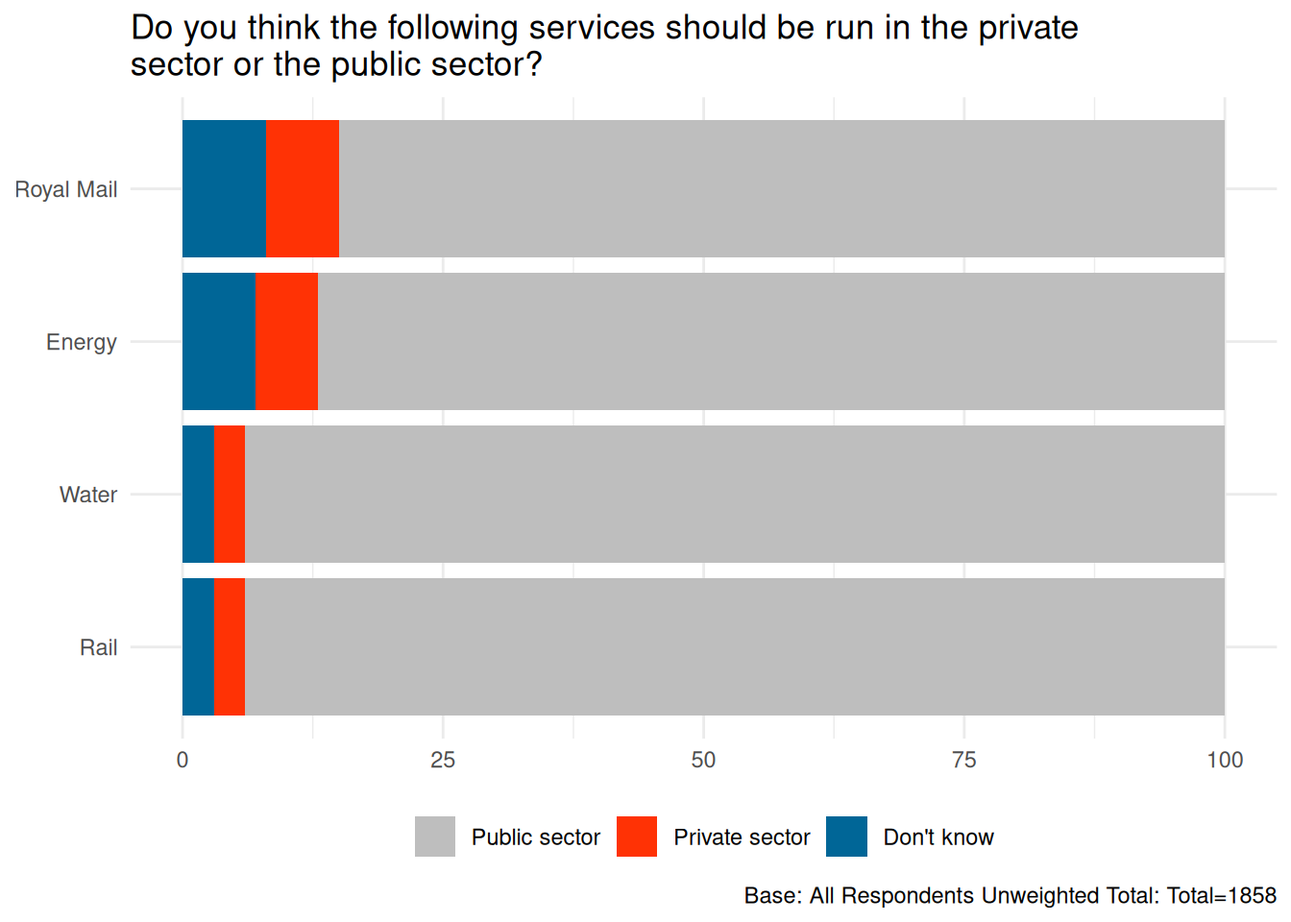
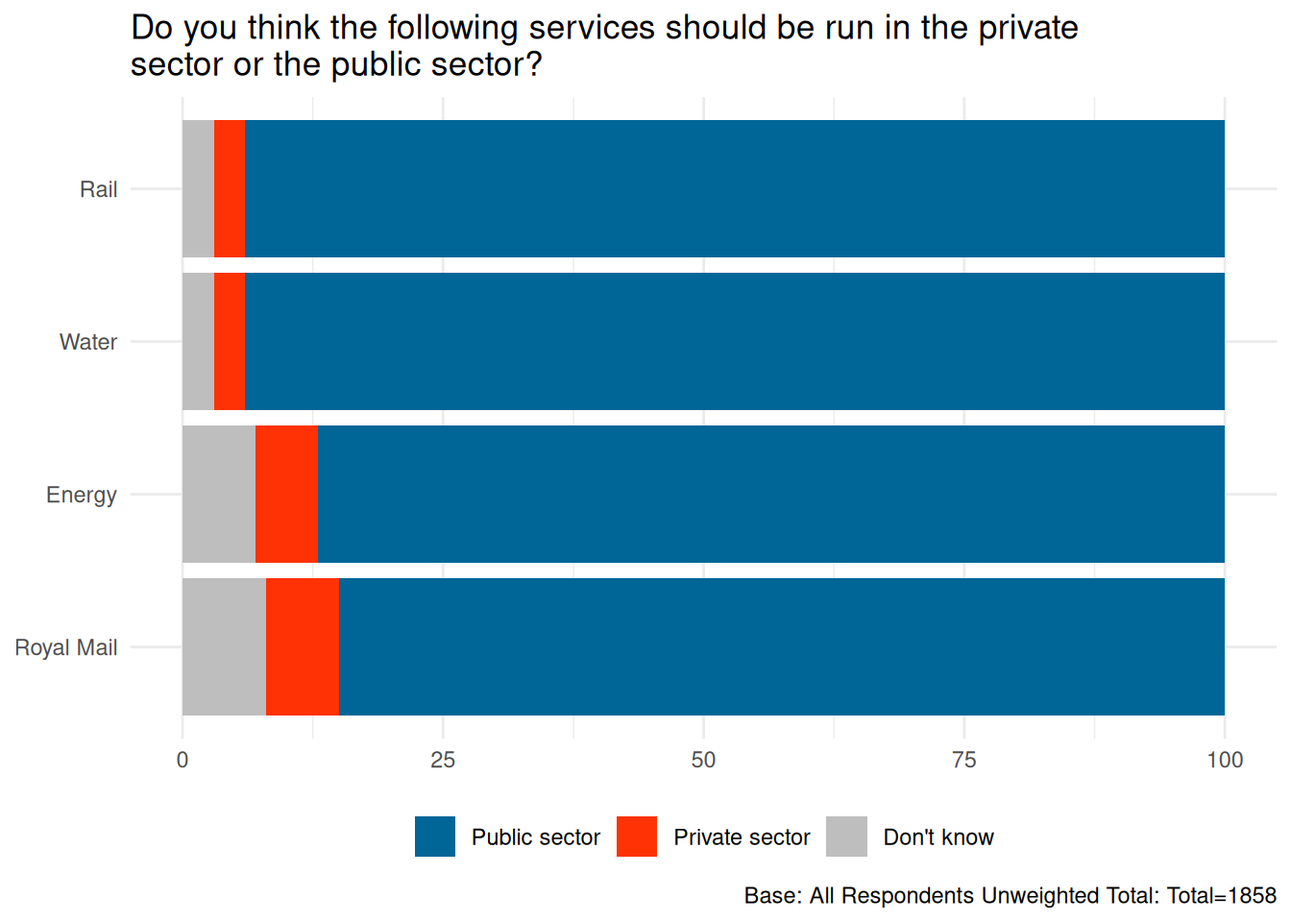
Lab 4 completed

diff --git a/lab-4.html b/lab-4.html
@@ -164,11 +164,8 @@ Try each label option in the code chunk provided in your document. If it gives y
 </div>
 <pre><code>Add the following code chunk options, one at a time, and set each to `false` and then to `true`. After each value, render your document and observe its effect. Ultimately, choose the values that are the most appropriate for this code chunk. Based on the behaviors you observe, describe what each code chunk option does.</code></pre>
 <ul>
-<li><code>echo</code></li>
-</ul>
-<p>When I tried <code>echo: true</code>. The code is hidden, but the output can still appear if the code runs <code>echo: false</code>. The goal is to show only the plot and not the code then<code>echo: false</code> is better.</p>
-<ul>
-<li><code>warning</code></li>
+<li><p><code>echo</code></p></li>
+<li><p><code>warning</code></p></li>
 </ul>
 <p>Warning messages produced by the code are shown in the document with <code>warning: true</code>. And warning messages are hidden with <code>warning: false</code>. <code>warning: false</code> is better, so the document stays clean unless the warnings matter.</p>
 <ul>
@@ -196,8 +193,8 @@ Try each label option in the code chunk provided in your document. If it gives y
 <span id="cb11-2"><a href="#cb11-2" aria-hidden="true" tabindex="-1"></a>  <span class="fu">geom_point</span>()</span></code></pre></div><button title="Copy to Clipboard" class="code-copy-button"><i class="bi"></i></button></div>
 </div>
 <pre><code>Add `fig-width` and `fig-asp` as code chunk options. Try setting `fig-width` to values between 1 and 10. Try setting `fig-asp` to values between 0.1 and 1. Re-render the document after each value and observe its effect. Ultimately, choose values that make the plot look visually pleasing in the rendered document. Based on the behavior you observe, describe what each chunk option does.</code></pre>
-<p><code>fig-width</code> changes the width of the figure. Larger values make the plot wider and smaller values make it shorter.</p>
-<p>fig-asp` changes how tall the figure is compared to its width. Larger values make the figure taller and smaller values make it shorter.</p>
+<p><code>fig-width</code> changes the width of the figure. Larger values make the plot wider and smaller values make it narrower.</p>
+<p><code>fig-asp</code> changes how tall the figure is compared to its width. Larger values make the figure taller and smaller values make it shorter.</p>
 <p>A visually pleasing choice for this plot is:</p>
 <div class="cell">
 <div class="code-copy-outer-scaffold"><div class="sourceCode cell-code" id="cb13"><pre class="sourceCode r code-with-copy"><code class="sourceCode r"><span id="cb13-1"><a href="#cb13-1" aria-hidden="true" tabindex="-1"></a><span class="co"># with assistance of ChatGPT</span></span>
@@ -265,10 +262,11 @@ Tip
 </figure>
 </div>
 <ol type="a">
-<li>What is misleading about this graph?</li>
-<li>Suppose you wanted to recreate this plot, with improvements to avoid its misleading pitfalls from part (a). You would obviously need the data from the survey in order to be able to do that. How many observations would this data have? How many variables (at least) should it have, and what should those variables be?</li>
-<li>Load the data for this survey from <code>data/survation.csv</code>. Confirm that the data match the percentages from the visualization. That is, calculate the percentages of public sector, private sector, don’t know for each of the services and check that they match the percentages from the plot.</li>
+<li><p>What is misleading about this graph? The graph is misleading as percentages do not match the bar sizes.</p></li>
+<li><p>Suppose you wanted to recreate this plot, with improvements to avoid its misleading pitfalls from part (a). You would obviously need the data from the survey in order to be able to do that. How many observations would this data have? How many variables (at least) should it have, and what should those variables be?</p></li>
 </ol>
+<p>1858 is the total sample size. Service and response would be needed, and an ID variable would be helpful. c.&nbsp;Load the data for this survey from <code>data/survation.csv</code>. Confirm that the data match the percentages from the visualization. That is, calculate the percentages of public sector, private sector, don’t know for each of the services and check that they match the percentages from the plot.</p>
+<p>After loading the survation.csv file it was found that the percentage calculated matches the plot.</p>
 <div class="cell">
 <div class="code-copy-outer-scaffold"><div class="sourceCode cell-code" id="cb19"><pre class="sourceCode r code-with-copy"><code class="sourceCode r"><span id="cb19-1"><a href="#cb19-1" aria-hidden="true" tabindex="-1"></a><span class="co"># With assistance of ChatGPT</span></span>
 <span id="cb19-2"><a href="#cb19-2" aria-hidden="true" tabindex="-1"></a>survation <span class="ot">&lt;-</span> <span class="fu">read_csv</span>(<span class="st">"data/survation.csv"</span>)</span></code></pre></div><button title="Copy to Clipboard" class="code-copy-button"><i class="bi"></i></button></div>
@@ -324,48 +322,44 @@ dbl (1): ID
 <li><p>does not need to have a bolded title or a gray background</p></li>
 </ul>
 <div class="cell">
-<div class="code-copy-outer-scaffold"><div class="sourceCode cell-code" id="cb23"><pre class="sourceCode r code-with-copy"><code class="sourceCode r"><span id="cb23-1"><a href="#cb23-1" aria-hidden="true" tabindex="-1"></a>survation <span class="ot">&lt;-</span> <span class="fu">read_csv</span>(<span class="st">"data/survation.csv"</span>)</span></code></pre></div><button title="Copy to Clipboard" class="code-copy-button"><i class="bi"></i></button></div>
-<div class="cell-output cell-output-stderr">
-<pre><code>Rows: 1858 Columns: 5
-── Column specification ────────────────────────────────────────────────────────
-Delimiter: ","
-chr (4): Royal Mail, Energy, Water, Rail
-dbl (1): ID
-
-ℹ Use `spec()` to retrieve the full column specification for this data.
-ℹ Specify the column types or set `show_col_types = FALSE` to quiet this message.</code></pre>
-</div>
-<div class="code-copy-outer-scaffold"><div class="sourceCode cell-code" id="cb25"><pre class="sourceCode r code-with-copy"><code class="sourceCode r"><span id="cb25-1"><a href="#cb25-1" aria-hidden="true" tabindex="-1"></a>service_levels <span class="ot">&lt;-</span> <span class="fu">c</span>(<span class="st">"Rail"</span>, <span class="st">"Water"</span>, <span class="st">"Energy"</span>, <span class="st">"Royal Mail"</span>)</span>
-<span id="cb25-2"><a href="#cb25-2" aria-hidden="true" tabindex="-1"></a>response_levels <span class="ot">&lt;-</span> <span class="fu">c</span>(<span class="st">"Public sector"</span>, <span class="st">"Private sector"</span>, <span class="st">"Don't know"</span>)</span>
-<span id="cb25-3"><a href="#cb25-3" aria-hidden="true" tabindex="-1"></a></span>
-<span id="cb25-4"><a href="#cb25-4" aria-hidden="true" tabindex="-1"></a>survation_long <span class="ot">&lt;-</span> survation <span class="sc">|&gt;</span></span>
-<span id="cb25-5"><a href="#cb25-5" aria-hidden="true" tabindex="-1"></a>  <span class="fu">pivot_longer</span>(</span>
-<span id="cb25-6"><a href="#cb25-6" aria-hidden="true" tabindex="-1"></a>    <span class="at">cols =</span> <span class="sc">-</span>ID,</span>
-<span id="cb25-7"><a href="#cb25-7" aria-hidden="true" tabindex="-1"></a>    <span class="at">names_to =</span> <span class="st">"service"</span>,</span>
-<span id="cb25-8"><a href="#cb25-8" aria-hidden="true" tabindex="-1"></a>    <span class="at">values_to =</span> <span class="st">"response"</span></span>
-<span id="cb25-9"><a href="#cb25-9" aria-hidden="true" tabindex="-1"></a>  ) <span class="sc">|&gt;</span></span>
-<span id="cb25-10"><a href="#cb25-10" aria-hidden="true" tabindex="-1"></a>  <span class="fu">mutate</span>(</span>
-<span id="cb25-11"><a href="#cb25-11" aria-hidden="true" tabindex="-1"></a>    <span class="at">service =</span> <span class="fu">factor</span>(service, <span class="at">levels =</span> service_levels),</span>
-<span id="cb25-12"><a href="#cb25-12" aria-hidden="true" tabindex="-1"></a>    <span class="at">response =</span> <span class="fu">factor</span>(response, <span class="at">levels =</span> response_levels)</span>
-<span id="cb25-13"><a href="#cb25-13" aria-hidden="true" tabindex="-1"></a>  )</span>
-<span id="cb25-14"><a href="#cb25-14" aria-hidden="true" tabindex="-1"></a></span>
-<span id="cb25-15"><a href="#cb25-15" aria-hidden="true" tabindex="-1"></a>survation_plot <span class="ot">&lt;-</span> survation_long <span class="sc">|&gt;</span></span>
-<span id="cb25-16"><a href="#cb25-16" aria-hidden="true" tabindex="-1"></a>  <span class="fu">count</span>(service, response) <span class="sc">|&gt;</span></span>
-<span id="cb25-17"><a href="#cb25-17" aria-hidden="true" tabindex="-1"></a>  <span class="fu">group_by</span>(service) <span class="sc">|&gt;</span></span>
-<span id="cb25-18"><a href="#cb25-18" aria-hidden="true" tabindex="-1"></a>  <span class="fu">mutate</span>(<span class="at">percent =</span> n <span class="sc">/</span> <span class="fu">sum</span>(n) <span class="sc">*</span> <span class="dv">100</span>)</span>
-<span id="cb25-19"><a href="#cb25-19" aria-hidden="true" tabindex="-1"></a></span>
-<span id="cb25-20"><a href="#cb25-20" aria-hidden="true" tabindex="-1"></a><span class="fu">ggplot</span>(survation_plot, <span class="fu">aes</span>(<span class="at">x =</span> percent, <span class="at">y =</span> service, <span class="at">fill =</span> response)) <span class="sc">+</span></span>
-<span id="cb25-21"><a href="#cb25-21" aria-hidden="true" tabindex="-1"></a>  <span class="fu">geom_col</span>() <span class="sc">+</span></span>
-<span id="cb25-22"><a href="#cb25-22" aria-hidden="true" tabindex="-1"></a>  <span class="fu">scale_fill_manual</span>(<span class="at">values =</span> <span class="fu">c</span>(<span class="st">"gray"</span>, <span class="st">"#FF3205"</span>, <span class="st">"#006697"</span>)) <span class="sc">+</span></span>
-<span id="cb25-23"><a href="#cb25-23" aria-hidden="true" tabindex="-1"></a>  <span class="fu">labs</span>(</span>
-<span id="cb25-24"><a href="#cb25-24" aria-hidden="true" tabindex="-1"></a>    <span class="at">title =</span> <span class="st">"Do you think the following services should be run in the private</span><span class="sc">\n</span><span class="st">sector or the public sector?"</span>,</span>
-<span id="cb25-25"><a href="#cb25-25" aria-hidden="true" tabindex="-1"></a>    <span class="at">caption =</span> <span class="st">"Base: All Respondents Unweighted Total: Total=1858"</span>,</span>
-<span id="cb25-26"><a href="#cb25-26" aria-hidden="true" tabindex="-1"></a>    <span class="at">x =</span> <span class="cn">NULL</span>,</span>
-<span id="cb25-27"><a href="#cb25-27" aria-hidden="true" tabindex="-1"></a>    <span class="at">y =</span> <span class="cn">NULL</span>,</span>
-<span id="cb25-28"><a href="#cb25-28" aria-hidden="true" tabindex="-1"></a>    <span class="at">fill =</span> <span class="cn">NULL</span></span>
-<span id="cb25-29"><a href="#cb25-29" aria-hidden="true" tabindex="-1"></a>  ) <span class="sc">+</span></span>
-<span id="cb25-30"><a href="#cb25-30" aria-hidden="true" tabindex="-1"></a>  <span class="fu">theme_minimal</span>() <span class="sc">+</span></span>
-<span id="cb25-31"><a href="#cb25-31" aria-hidden="true" tabindex="-1"></a>  <span class="fu">theme</span>(<span class="at">legend.position =</span> <span class="st">"bottom"</span>)</span></code></pre></div><button title="Copy to Clipboard" class="code-copy-button"><i class="bi"></i></button></div>
+<div class="code-copy-outer-scaffold"><div class="sourceCode cell-code" id="cb23"><pre class="sourceCode r code-with-copy"><code class="sourceCode r"><span id="cb23-1"><a href="#cb23-1" aria-hidden="true" tabindex="-1"></a><span class="co">#Assisted by ChatGPT</span></span>
+<span id="cb23-2"><a href="#cb23-2" aria-hidden="true" tabindex="-1"></a>survation <span class="ot">&lt;-</span> <span class="fu">read_csv</span>(<span class="st">"data/survation.csv"</span>, <span class="at">show_col_types =</span> <span class="cn">FALSE</span>)</span>
+<span id="cb23-3"><a href="#cb23-3" aria-hidden="true" tabindex="-1"></a></span>
+<span id="cb23-4"><a href="#cb23-4" aria-hidden="true" tabindex="-1"></a>service_levels <span class="ot">&lt;-</span> <span class="fu">c</span>(<span class="st">"Rail"</span>, <span class="st">"Water"</span>, <span class="st">"Energy"</span>, <span class="st">"Royal Mail"</span>)</span>
+<span id="cb23-5"><a href="#cb23-5" aria-hidden="true" tabindex="-1"></a>response_levels <span class="ot">&lt;-</span> <span class="fu">c</span>(<span class="st">"Public sector"</span>, <span class="st">"Private sector"</span>, <span class="st">"Don't know"</span>)</span>
+<span id="cb23-6"><a href="#cb23-6" aria-hidden="true" tabindex="-1"></a></span>
+<span id="cb23-7"><a href="#cb23-7" aria-hidden="true" tabindex="-1"></a>survation_long <span class="ot">&lt;-</span> survation <span class="sc">|&gt;</span></span>
+<span id="cb23-8"><a href="#cb23-8" aria-hidden="true" tabindex="-1"></a>  <span class="fu">pivot_longer</span>(</span>
+<span id="cb23-9"><a href="#cb23-9" aria-hidden="true" tabindex="-1"></a>    <span class="at">cols =</span> <span class="sc">-</span>ID,</span>
+<span id="cb23-10"><a href="#cb23-10" aria-hidden="true" tabindex="-1"></a>    <span class="at">names_to =</span> <span class="st">"service"</span>,</span>
+<span id="cb23-11"><a href="#cb23-11" aria-hidden="true" tabindex="-1"></a>    <span class="at">values_to =</span> <span class="st">"response"</span></span>
+<span id="cb23-12"><a href="#cb23-12" aria-hidden="true" tabindex="-1"></a>  ) <span class="sc">|&gt;</span></span>
+<span id="cb23-13"><a href="#cb23-13" aria-hidden="true" tabindex="-1"></a>  <span class="fu">mutate</span>(</span>
+<span id="cb23-14"><a href="#cb23-14" aria-hidden="true" tabindex="-1"></a>    <span class="at">service =</span> <span class="fu">factor</span>(service, <span class="at">levels =</span> <span class="fu">rev</span>(service_levels)),</span>
+<span id="cb23-15"><a href="#cb23-15" aria-hidden="true" tabindex="-1"></a>    <span class="at">response =</span> <span class="fu">factor</span>(response, <span class="at">levels =</span> response_levels)</span>
+<span id="cb23-16"><a href="#cb23-16" aria-hidden="true" tabindex="-1"></a>  )</span>
+<span id="cb23-17"><a href="#cb23-17" aria-hidden="true" tabindex="-1"></a></span>
+<span id="cb23-18"><a href="#cb23-18" aria-hidden="true" tabindex="-1"></a>survation_plot <span class="ot">&lt;-</span> survation_long <span class="sc">|&gt;</span></span>
+<span id="cb23-19"><a href="#cb23-19" aria-hidden="true" tabindex="-1"></a>  <span class="fu">count</span>(service, response) <span class="sc">|&gt;</span></span>
+<span id="cb23-20"><a href="#cb23-20" aria-hidden="true" tabindex="-1"></a>  <span class="fu">group_by</span>(service) <span class="sc">|&gt;</span></span>
+<span id="cb23-21"><a href="#cb23-21" aria-hidden="true" tabindex="-1"></a>  <span class="fu">mutate</span>(<span class="at">percent =</span> n <span class="sc">/</span> <span class="fu">sum</span>(n) <span class="sc">*</span> <span class="dv">100</span>)</span>
+<span id="cb23-22"><a href="#cb23-22" aria-hidden="true" tabindex="-1"></a></span>
+<span id="cb23-23"><a href="#cb23-23" aria-hidden="true" tabindex="-1"></a><span class="fu">ggplot</span>(survation_plot, <span class="fu">aes</span>(<span class="at">x =</span> percent, <span class="at">y =</span> service, <span class="at">fill =</span> response)) <span class="sc">+</span></span>
+<span id="cb23-24"><a href="#cb23-24" aria-hidden="true" tabindex="-1"></a>  <span class="fu">geom_col</span>() <span class="sc">+</span></span>
+<span id="cb23-25"><a href="#cb23-25" aria-hidden="true" tabindex="-1"></a>  <span class="fu">scale_fill_manual</span>(</span>
+<span id="cb23-26"><a href="#cb23-26" aria-hidden="true" tabindex="-1"></a>    <span class="at">values =</span> <span class="fu">c</span>(<span class="st">"Public sector"</span> <span class="ot">=</span> <span class="st">"#006697"</span>,</span>
+<span id="cb23-27"><a href="#cb23-27" aria-hidden="true" tabindex="-1"></a>               <span class="st">"Private sector"</span> <span class="ot">=</span> <span class="st">"#FF3205"</span>,</span>
+<span id="cb23-28"><a href="#cb23-28" aria-hidden="true" tabindex="-1"></a>               <span class="st">"Don't know"</span> <span class="ot">=</span> <span class="st">"gray"</span>)</span>
+<span id="cb23-29"><a href="#cb23-29" aria-hidden="true" tabindex="-1"></a>  ) <span class="sc">+</span></span>
+<span id="cb23-30"><a href="#cb23-30" aria-hidden="true" tabindex="-1"></a>  <span class="fu">labs</span>(</span>
+<span id="cb23-31"><a href="#cb23-31" aria-hidden="true" tabindex="-1"></a>    <span class="at">title =</span> <span class="st">"Do you think the following services should be run in the private</span><span class="sc">\n</span><span class="st">sector or the public sector?"</span>,</span>
+<span id="cb23-32"><a href="#cb23-32" aria-hidden="true" tabindex="-1"></a>    <span class="at">caption =</span> <span class="st">"Base: All Respondents Unweighted Total: Total=1858"</span>,</span>
+<span id="cb23-33"><a href="#cb23-33" aria-hidden="true" tabindex="-1"></a>    <span class="at">x =</span> <span class="cn">NULL</span>,</span>
+<span id="cb23-34"><a href="#cb23-34" aria-hidden="true" tabindex="-1"></a>    <span class="at">y =</span> <span class="cn">NULL</span>,</span>
+<span id="cb23-35"><a href="#cb23-35" aria-hidden="true" tabindex="-1"></a>    <span class="at">fill =</span> <span class="cn">NULL</span></span>
+<span id="cb23-36"><a href="#cb23-36" aria-hidden="true" tabindex="-1"></a>  ) <span class="sc">+</span></span>
+<span id="cb23-37"><a href="#cb23-37" aria-hidden="true" tabindex="-1"></a>  <span class="fu">theme_minimal</span>() <span class="sc">+</span></span>
+<span id="cb23-38"><a href="#cb23-38" aria-hidden="true" tabindex="-1"></a>  <span class="fu">theme</span>(<span class="at">legend.position =</span> <span class="st">"bottom"</span>)</span></code></pre></div><button title="Copy to Clipboard" class="code-copy-button"><i class="bi"></i></button></div>
 <div class="cell-output-display">
 <div>
 <figure class="figure">
@@ -375,20 +369,8 @@ dbl (1): ID
 </div>
 </div>
 <p>How does the improved visualization look different than the original? Does it send a different message at a first glance?</p>
-<div class="callout callout-style-default callout-tip callout-titled">
-<div class="callout-header d-flex align-content-center">
-<div class="callout-icon-container">
-<i class="callout-icon"></i>
-</div>
-<div class="callout-title-container flex-fill">
-Tip
-</div>
-</div>
-<div class="callout-body-container callout-body">
-<p>Use <code>\n</code> to add a line break to your title. And note that since the title is very long, it might run off the page in your code. That’s ok!</p>
-<p>Additionally, the colors used in the plot are <code>gray</code>, <code>#FF3205</code>, and <code>#006697</code>.</p>
-</div>
-</div>
+<p>The improved graph looks better than the original one as it matches the bar lengths with percentages and the services are in correct order. The colors also match the categories correctly. This graph is much clearer than the original one. ::: callout-tip Use <code>\n</code> to add a line break to your title. And note that since the title is very long, it might run off the page in your code. That’s ok!</p>
+<p>Additionally, the colors used in the plot are <code>gray</code>, <code>#FF3205</code>, and <code>#006697</code>. :::</p>
 <div class="render-commit-push">
 <p>Render, commit, and push one last time. Make sure that you commit and push all changed documents and your Git pane is completely empty before proceeding.</p>
 <p><br></p>
@@ -423,7 +405,7 @@ Note
 </div>
 <p>Here is a peek at the top 10 rows of the dataset:</p>
 <div class="cell">
-<div class="code-copy-outer-scaffold"><div class="sourceCode cell-code" id="cb26"><pre class="sourceCode r code-with-copy"><code class="sourceCode r"><span id="cb26-1"><a href="#cb26-1" aria-hidden="true" tabindex="-1"></a>datasaurus_dozen</span></code></pre></div><button title="Copy to Clipboard" class="code-copy-button"><i class="bi"></i></button></div>
+<div class="code-copy-outer-scaffold"><div class="sourceCode cell-code" id="cb24"><pre class="sourceCode r code-with-copy"><code class="sourceCode r"><span id="cb24-1"><a href="#cb24-1" aria-hidden="true" tabindex="-1"></a>datasaurus_dozen</span></code></pre></div><button title="Copy to Clipboard" class="code-copy-button"><i class="bi"></i></button></div>
 <div class="cell-output cell-output-stdout">
 <pre><code># A tibble: 1,846 × 3
    dataset     x     y
@@ -444,6 +426,38 @@ Note
 <section id="question-6" class="level2">
 <h2 class="anchored" data-anchor-id="question-6">Question 6</h2>
 <p>In a single pipeline, calculate the mean of <code>x</code>, mean of <code>y</code>, standard deviation of <code>x</code>, standard deviation of <code>y</code>, and the correlation between <code>x</code> and <code>y</code> for each level of the <code>dataset</code> variable. Then, in 1-2 sentences, comment on how these summary statistics compare across groups (datasets).</p>
+<div class="cell">
+<div class="code-copy-outer-scaffold"><div class="sourceCode cell-code" id="cb26"><pre class="sourceCode r code-with-copy"><code class="sourceCode r"><span id="cb26-1"><a href="#cb26-1" aria-hidden="true" tabindex="-1"></a><span class="co"># Assisted by ChatGPT</span></span>
+<span id="cb26-2"><a href="#cb26-2" aria-hidden="true" tabindex="-1"></a>datasaurus_dozen <span class="sc">|&gt;</span></span>
+<span id="cb26-3"><a href="#cb26-3" aria-hidden="true" tabindex="-1"></a>  <span class="fu">group_by</span>(dataset) <span class="sc">|&gt;</span></span>
+<span id="cb26-4"><a href="#cb26-4" aria-hidden="true" tabindex="-1"></a>  <span class="fu">summarise</span>(</span>
+<span id="cb26-5"><a href="#cb26-5" aria-hidden="true" tabindex="-1"></a>    <span class="at">mean_x =</span> <span class="fu">mean</span>(x),</span>
+<span id="cb26-6"><a href="#cb26-6" aria-hidden="true" tabindex="-1"></a>    <span class="at">mean_y =</span> <span class="fu">mean</span>(y),</span>
+<span id="cb26-7"><a href="#cb26-7" aria-hidden="true" tabindex="-1"></a>    <span class="at">sd_x =</span> <span class="fu">sd</span>(x),</span>
+<span id="cb26-8"><a href="#cb26-8" aria-hidden="true" tabindex="-1"></a>    <span class="at">sd_y =</span> <span class="fu">sd</span>(y),</span>
+<span id="cb26-9"><a href="#cb26-9" aria-hidden="true" tabindex="-1"></a>    <span class="at">correlation =</span> <span class="fu">cor</span>(x, y)</span>
+<span id="cb26-10"><a href="#cb26-10" aria-hidden="true" tabindex="-1"></a>  ) <span class="sc">|&gt;</span></span>
+<span id="cb26-11"><a href="#cb26-11" aria-hidden="true" tabindex="-1"></a>  <span class="fu">print</span>(<span class="at">n =</span> <span class="dv">13</span>)</span></code></pre></div><button title="Copy to Clipboard" class="code-copy-button"><i class="bi"></i></button></div>
+<div class="cell-output cell-output-stdout">
+<pre><code># A tibble: 13 × 6
+   dataset    mean_x mean_y  sd_x  sd_y correlation
+   &lt;chr&gt;       &lt;dbl&gt;  &lt;dbl&gt; &lt;dbl&gt; &lt;dbl&gt;       &lt;dbl&gt;
+ 1 away         54.3   47.8  16.8  26.9     -0.0641
+ 2 bullseye     54.3   47.8  16.8  26.9     -0.0686
+ 3 circle       54.3   47.8  16.8  26.9     -0.0683
+ 4 dino         54.3   47.8  16.8  26.9     -0.0645
+ 5 dots         54.3   47.8  16.8  26.9     -0.0603
+ 6 h_lines      54.3   47.8  16.8  26.9     -0.0617
+ 7 high_lines   54.3   47.8  16.8  26.9     -0.0685
+ 8 slant_down   54.3   47.8  16.8  26.9     -0.0690
+ 9 slant_up     54.3   47.8  16.8  26.9     -0.0686
+10 star         54.3   47.8  16.8  26.9     -0.0630
+11 v_lines      54.3   47.8  16.8  26.9     -0.0694
+12 wide_lines   54.3   47.8  16.8  26.9     -0.0666
+13 x_shape      54.3   47.8  16.8  26.9     -0.0656</code></pre>
+</div>
+</div>
+<p>For all the 13 datasets the summary statistics are almost similar. “mean x” and “mean y” are almost same. The same with standard deviation and correlation as well which shows that the datasets look similar.</p>
 <div class="callout callout-style-default callout-tip callout-titled">
 <div class="callout-header d-flex align-content-center">
 <div class="callout-icon-container">
@@ -461,6 +475,21 @@ Tip
 <section id="question-7" class="level2">
 <h2 class="anchored" data-anchor-id="question-7">Question 7</h2>
 <p>Create a scatterplot of <code>y</code> versus <code>x</code> and color and facet it by <code>dataset</code>. Then, in 1-2 sentences, how these plots compare across groups (datasets). How does your response in this question compare to your response to the previous question and what does this say about using visualizations and summary statistics when getting to know a dataset?</p>
+<div class="cell">
+<div class="code-copy-outer-scaffold"><div class="sourceCode cell-code" id="cb28"><pre class="sourceCode r code-with-copy"><code class="sourceCode r"><span id="cb28-1"><a href="#cb28-1" aria-hidden="true" tabindex="-1"></a><span class="co"># Assisted by ChatGPT</span></span>
+<span id="cb28-2"><a href="#cb28-2" aria-hidden="true" tabindex="-1"></a>datasaurus_dozen <span class="sc">|&gt;</span></span>
+<span id="cb28-3"><a href="#cb28-3" aria-hidden="true" tabindex="-1"></a>  <span class="fu">ggplot</span>(<span class="fu">aes</span>(<span class="at">x =</span> x, <span class="at">y =</span> y, <span class="at">color =</span> dataset)) <span class="sc">+</span></span>
+<span id="cb28-4"><a href="#cb28-4" aria-hidden="true" tabindex="-1"></a>  <span class="fu">geom_point</span>(<span class="at">show.legend =</span> <span class="cn">FALSE</span>) <span class="sc">+</span></span>
+<span id="cb28-5"><a href="#cb28-5" aria-hidden="true" tabindex="-1"></a>  <span class="fu">facet_wrap</span>(<span class="sc">~</span> dataset)</span></code></pre></div><button title="Copy to Clipboard" class="code-copy-button"><i class="bi"></i></button></div>
+<div class="cell-output-display">
+<div>
+<figure class="figure">
+<p><img src="lab-4_files/figure-html/unnamed-chunk-13-1.png" class="img-fluid figure-img" width="672"></p>
+</figure>
+</div>
+</div>
+</div>
+<p>Each dataset forms its own shape or its own pattern therefore the scatter plots are different from each other. In comparison with Q6, we can see that only numbers can’t tell us the whole story hence graphs are important to understand data as well.</p>
 <div class="callout callout-style-default callout-tip callout-titled">
 <div class="callout-header d-flex align-content-center">
 <div class="callout-icon-container">
